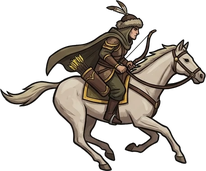
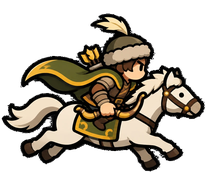
기마궁수(보스 7) 본체를 메인 화풍으로 교체, 정렬 도구에 bbox 정렬 추가 (베타 1.295)
Claude-Session: https://claude.ai/code/session_01EFTEodMUbbTSUTixRFZg7z

diff --git a/tools/slice_aligned.py b/tools/slice_aligned.py
@@ -1,7 +1,7 @@
 #!/usr/bin/env python3
 """가로로 늘어선 스프라이트 시트(투명 배경)를 한 장씩 자르되, 모든 그림의 캔버스 크기와 발 위치를 똑같이 맞춰 저장한다.
 
-  python3 tools/slice_aligned.py sheet.png outdir --names boss5_swing_a,boss5_swing_b [--scale 0.5] [--foot-rows 24] [--pad 4]
+  python3 tools/slice_aligned.py sheet.png outdir --names boss5_swing_a,boss5_swing_b [--scale 0.5] [--foot-rows 24] [--pad 4] [--align feet|bbox]
 
 같은 보스의 포즈를 번갈아 보여 줄 때(휘두르기 2장, 도는 포즈 4장 등) 몸이 튀지 않으려면 크기와 발 위치가 같아야 한다.
 - 항목 나누기: 세로 방향으로 합쳐 본 투명 열(--gap px 이상 이어진 빈 구간)을 경계로 나눈다. 글자 라벨은 --label-y 아래를 미리 지워 둔다.
@@ -28,6 +28,7 @@ def main() -> int:
     ap.add_argument("--gap", type=int, default=20)
     ap.add_argument("--pad", type=int, default=4)
     ap.add_argument("--alpha", type=int, default=40)
+    ap.add_argument("--align", choices=["feet", "bbox"], default="feet", help="가로 정렬 기준: feet=맨 아래 줄 발 중심(서 있는 보스), bbox=그림 전체 상자의 가로 중심(말처럼 다리를 벌리고 달리는 포즈)")
     args = ap.parse_args()
     names = args.names.split(",")
 
@@ -60,6 +61,9 @@ def main() -> int:
         top, bottom = int(ys.min()), int(ys.max())
         foot = m[max(top, bottom - args.foot_rows + 1) : bottom + 1]
         fx = float(np.where(foot.any(0))[0].mean())  # 서브 이미지 안 발 중심 x
+        if args.align == "bbox":
+            xs_ = np.where(m.any(0))[0]
+            fx = float((xs_.min() + xs_.max()) / 2)
         items.append({"img": sub[top : bottom + 1], "fx": fx, "w": x1 - x0 + 1, "h": bottom - top + 1})
     left = max(i["fx"] for i in items)
     right = max(i["w"] - i["fx"] for i in items)

diff --git a/docs/asset-prompts.md b/docs/asset-prompts.md
@@ -1429,3 +1429,5 @@ The bowstring must never cross the rider's face or the cap: draw the string behi
 
 Avoid: realistic proportions, tall lean adult rider, long-legged horse, small head, photo, 3d render, gradients, glossy highlights, painterly texture, thin or white outline, ground line, checkerboard pattern, detailed face, detailed eyes, realistic horse, motion lines, dust, bowstring across the face or cap, cropped or overlapping items, logo, watermark, any text other than the two captions.
 ```
+
+**13-7 진행**: 받음, 적용됨(베타 1.295). 기수·말 모두 치비 비율, 얼굴 단순, 활시위가 얼굴을 가로지르지 않고 로고도 없어 첫 시안을 그대로 썼다. `assets/units/boss7_gallop`·`boss7_shoot`(206x172 같은 캔버스, 이전 206x171과 같은 크기라 충돌 크기와 어긋나지 않는다), 예전 그림은 `_old`로 보관. **말이 다리를 벌리고 달려서 발 중심이 포즈마다 달라지므로 `tools/slice_aligned.py --align bbox`(그림 상자의 가로 중심으로 정렬)를 썼다.** 이펙트(`assets/fx/boss7_*`: 불, 궁지, 올가미 등)는 아직 예전 그림이다. 다음은 스테이지 8 전차.
